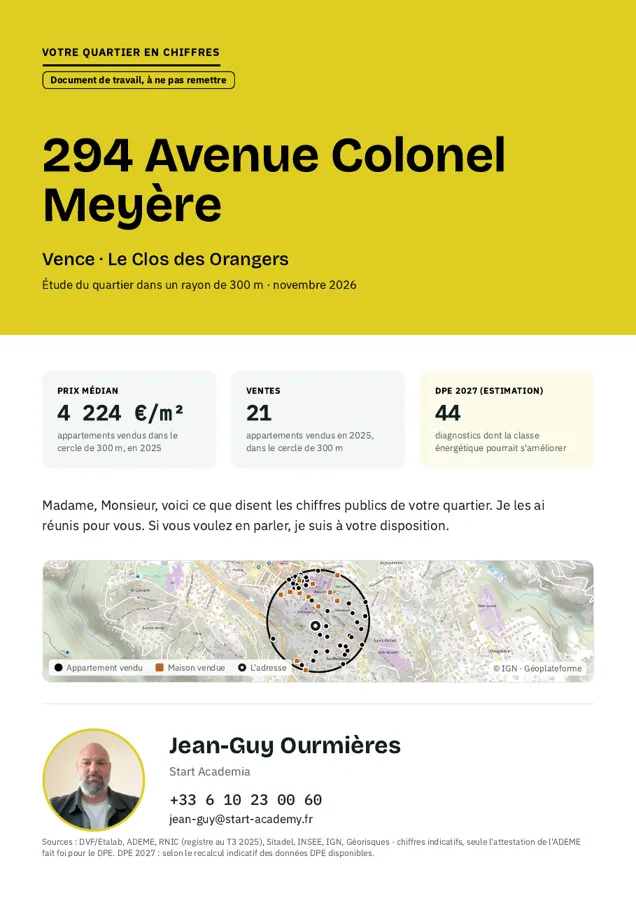
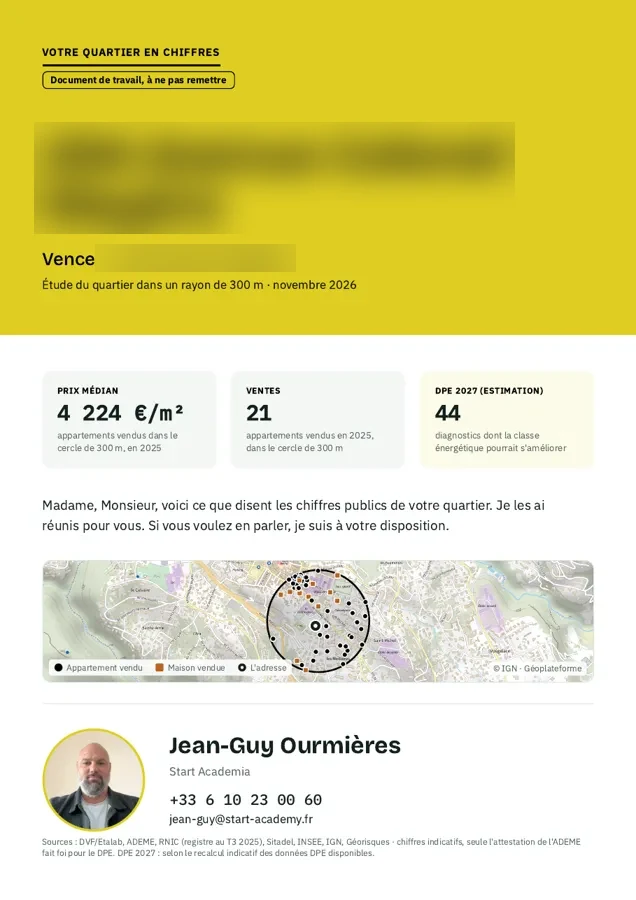
Outils : Academia Vivre ici en vedette, ordre de la chaîne, adresses floutées sur Academia Secteur
Claude-Session: https://claude.ai/code/session_01SUqzP9zgyyXN5sVY2BKJBS

Changed region(s): [[0.0299, 0.1244, 0.8365, 0.3111]]

diff --git a/index.html b/index.html
@@ -299,8 +299,24 @@
       </div>
     </article>
 
-    <!-- Profiling -->
+    <!-- Localisateur -->
     <article class="outil vedette inverse">
+      <div class="o-texte">
+        <p class="o-etape">Prospection</p>
+        <h3>Academia Localisateur</h3>
+        <p>Une extension pour votre navigateur, pensée pour les annonces de particuliers et en mandat simple. Ouvrez l'annonce&nbsp;: le Localisateur croise le cadastre, l'IGN et les DPE et vous propose les pistes d'adresse à vérifier, avec la vue 3D et les ventes du quartier. Un clic, et le bien rejoint <b>Mes biens</b> avec sa date de rappel. L'onglet <b>Futurs vendeurs</b> liste les nouveaux DPE du secteur sans annonce, sans aucun nom, pour un courrier aux occupants.</p>
+        <div class="o-gains"><div><strong>20&nbsp;min → 1&nbsp;min</strong><span>pour situer un bien vu en annonce</span></div><div><strong>Zéro oubli</strong><span>chaque bien suivi a sa date de rappel</span></div></div>
+        <div class="o-actions"><span class="o-acces">Extension Chrome · sur demande</span></div>
+      </div>
+      <div class="compo-dossier">
+        <figure class="ecran-o cd-appli"><div class="eo-barre"><i></i><i></i><i></i><span>Portail d'annonces · Academia Localisateur</span></div><img src="/img/localisateur-carte.webp" width="1100" height="648" loading="lazy" alt="Le Localisateur ouvert sur une annonce : la vue 3D du quartier et une piste d'adresse à vérifier (adresse masquée)."></figure>
+        <figure class="cd-courbe"><img src="/img/localisateur-futurs-vendeurs.webp" width="1100" height="322" loading="lazy" alt="L'onglet Futurs vendeurs : les nouveaux DPE du secteur sans annonce, aucun nom, et l'export pour un courrier aux occupants."></figure>
+        <figure class="cd-page p-bas"><img src="/img/localisateur-mes-biens.webp" width="636" height="1060" loading="lazy" alt="Le panneau Mes biens : biens à rappeler cette semaine, exclusivités, baisses de prix et biens suivis (adresses masquées)."></figure>
+      </div>
+    </article>
+
+    <!-- Profiling -->
+    <article class="outil vedette">
       <div class="o-texte">
         <p class="o-etape">Découverte vendeur · Acquéreurs</p>
         <h3>Academia Profiling</h3>
@@ -313,22 +329,6 @@
         <figure class="cd-courbe sombre"><img src="/img/profiling-strategie.webp" width="1100" height="422" loading="lazy" alt="La stratégie d'approche : levier psychologique principal, pitch idéal à copier et points à éviter absolument."></figure>
         <figure class="cd-page p-a"><img src="/img/profiling-pdf-synthese.webp" width="636" height="900" loading="lazy" alt="La synthèse du profil en PDF, avec les points clés du parcours."></figure>
         <figure class="cd-page p-b"><img src="/img/profiling-pdf-strategie.webp" width="636" height="900" loading="lazy" alt="La page Perspective stratégique du PDF : l'archétype psychologique de la personne."></figure>
-      </div>
-    </article>
-
-    <!-- Localisateur -->
-    <article class="outil vedette">
-      <div class="o-texte">
-        <p class="o-etape">Prospection</p>
-        <h3>Academia Localisateur</h3>
-        <p>Une extension pour votre navigateur, pensée pour les annonces de particuliers et en mandat simple. Ouvrez l'annonce&nbsp;: le Localisateur croise le cadastre, l'IGN et les DPE et vous propose les pistes d'adresse à vérifier, avec la vue 3D et les ventes du quartier. Un clic, et le bien rejoint <b>Mes biens</b> avec sa date de rappel. L'onglet <b>Futurs vendeurs</b> liste les nouveaux DPE du secteur sans annonce, sans aucun nom, pour un courrier aux occupants.</p>
-        <div class="o-gains"><div><strong>20&nbsp;min → 1&nbsp;min</strong><span>pour situer un bien vu en annonce</span></div><div><strong>Zéro oubli</strong><span>chaque bien suivi a sa date de rappel</span></div></div>
-        <div class="o-actions"><span class="o-acces">Extension Chrome · sur demande</span></div>
-      </div>
-      <div class="compo-dossier">
-        <figure class="ecran-o cd-appli"><div class="eo-barre"><i></i><i></i><i></i><span>Portail d'annonces · Academia Localisateur</span></div><img src="/img/localisateur-carte.webp" width="1100" height="648" loading="lazy" alt="Le Localisateur ouvert sur une annonce : la vue 3D du quartier et une piste d'adresse à vérifier (adresse masquée)."></figure>
-        <figure class="cd-courbe"><img src="/img/localisateur-futurs-vendeurs.webp" width="1100" height="322" loading="lazy" alt="L'onglet Futurs vendeurs : les nouveaux DPE du secteur sans annonce, aucun nom, et l'export pour un courrier aux occupants."></figure>
-        <figure class="cd-page p-bas"><img src="/img/localisateur-mes-biens.webp" width="636" height="1060" loading="lazy" alt="Le panneau Mes biens : biens à rappeler cette semaine, exclusivités, baisses de prix et biens suivis (adresses masquées)."></figure>
       </div>
     </article>
 
@@ -345,6 +345,23 @@
         <figure class="ecran-o cd-appli"><div class="eo-barre"><i></i><i></i><i></i><span>Academia ACM · rendez-vous vendeur</span></div><img src="/img/acm-analyse-prix.webp" width="1100" height="648" loading="lazy" alt="L'analyse des prix présentée au vendeur : sa valeur perçue, le prix des concurrents, l'analyse du conseiller et les prix affichés sur une ligne."></figure>
         <figure class="cd-courbe"><img src="/img/acm-danger.webp" width="1100" height="301" loading="lazy" alt="Le point marché : le bien est 5e sur 6 face à ses concurrents, aucun concurrent n'a baissé depuis le rendez-vous."></figure>
         <figure class="cd-carte"><img src="/img/acm-suivi-prix.webp" width="900" height="248" loading="lazy" alt="Le suivi d'un mandat exclusif : prix voulu par le vendeur, prix après le marché, prix signé aligné sur le marché (nom du vendeur masqué)."></figure>
+      </div>
+    </article>
+
+    <!-- Vivre ici -->
+    <article class="outil vedette">
+      <div class="o-texte">
+        <p class="o-etape">Acquéreurs · Annonces</p>
+        <h3>Academia Vivre ici</h3>
+        <p>Le quartier raconté à l'acquéreur, en chiffres publics. À pied&nbsp;: bus, école, pharmacie, commerces, avec les temps de marche réels. Qui habite ici, les prix du quartier, les transports, les écoles et crèches, les risques naturels. Deux pages A4 à votre charte, à imprimer, un lien client à envoyer sans compte et sans numéro de rue, et le texte prêt à coller dans l'annonce.</p>
+        <div class="o-gains"><div><strong>Un acquéreur qui se projette</strong><span>il découvre sa vie dans le quartier avant la visite</span></div><div><strong>Un texte d'annonce</strong><span>prêt à copier, à partir de chiffres publics</span></div></div>
+        <div class="o-actions"><span class="o-acces">Inclus dans Academia Secteur</span></div>
+      </div>
+      <div class="compo-dossier">
+        <figure class="ecran-o cd-appli"><div class="eo-barre"><i></i><i></i><i></i><span>Academia Vivre ici · le quotidien autour de l'adresse</span></div><img src="/img/vivre-ici-carte.webp" width="1100" height="648" loading="lazy" alt="La carte Vivre ici : boulangerie, parc, supermarché et arrêt de bus autour de l'adresse, avec les cercles de 5, 10 et 15 minutes à pied."></figure>
+        <figure class="cd-courbe"><img src="/img/vivre-ici-essentiel.webp" width="1100" height="190" loading="lazy" alt="L'essentiel du quartier : bus à 2 minutes, école à 2 minutes, pharmacie à 3 minutes, type de logements et accès."></figure>
+        <figure class="cd-page p-a"><img src="/img/vivre-ici-page1.webp" width="636" height="900" loading="lazy" alt="La première page imprimée Vivre ici : le quotidien, les écoles et les risques naturels (adresse masquée)."></figure>
+        <figure class="cd-page p-b"><img src="/img/vivre-ici-page2.webp" width="636" height="900" loading="lazy" alt="La deuxième page imprimée : prix du quartier, habitants, transports, commerces et santé (adresse masquée)."></figure>
       </div>
     </article>
 

diff --git a/styles.css b/styles.css
@@ -891,3 +891,4 @@ p { text-wrap: pretty; }
 .outil.large { grid-column: 1 / -1; grid-template-columns: 1fr 1fr; grid-template-rows: auto; align-items: center; }
 .outil.large .ecran-o { margin: 30px 0 30px 30px; }
 @media (max-width: 1000px) { .outil.large { grid-template-columns: 1fr; } .outil.large .ecran-o { margin: 0; } }
+.inverse .p-bas { right: auto; left: -3%; transform: rotate(-5deg); }
